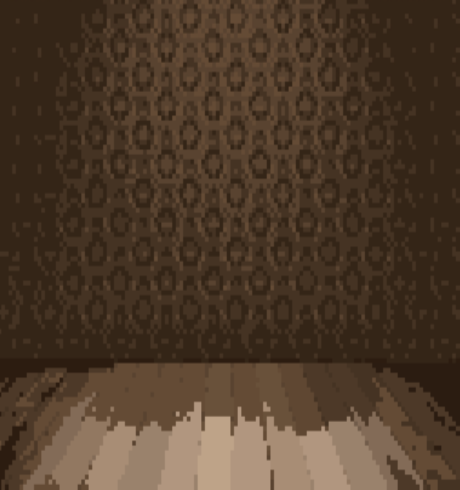
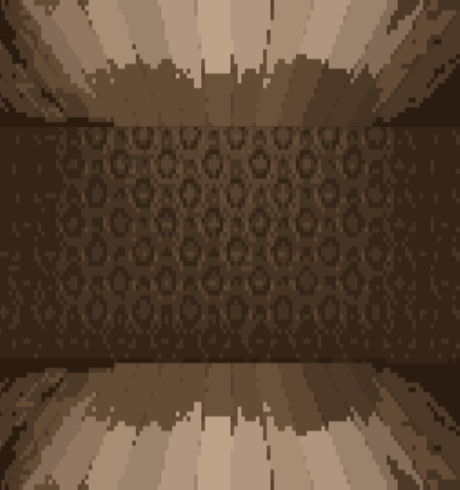
Attempting to make corners

Changed region(s): [[0.0, 0.0, 1.0, 0.2755]]

diff --git a/src/com/trapped/view/MainFrame.java b/src/com/trapped/view/MainFrame.java
@@ -20,13 +20,13 @@ public class MainFrame extends JFrame {
 
     GameHandler gHandler;
     public JButton startButton, settingButton, exitButton,SUBMITbtn;
-    public JPanel MenuBG_panel, menuPanel, itemsPanel, MainBG_Panel, TextBox_panel;
-    public JLabel themeLabel, roomLabel, keyLabel, matchLabel, laptopLabel, walletLabel, candleLabel, paperLabel, crowbarLabel;
+    public JPanel MenuBG_panel, menuPanel, itemsPanel, MainBG_Panel, cornerLeftPanel, cornerRightPanel, TextBox_panel;
+    public JLabel themeLabel, roomLabel, cornerLeft, cornerRight, keyLabel, matchLabel, laptopLabel, walletLabel, candleLabel, paperLabel, crowbarLabel;
     public JLabel matches, key, wallet, laptop, candle, paper, crowbar, windowWithKey, windowWithoutKey;
     public JTextArea introText = new JTextArea();
     public JTextArea textArea = new JTextArea();
     public TextField inputText = new TextField(20);
-    static List<Boolean> initArr = Arrays.asList(true, false, false, false, false, false, false, false, false, false, false, false, false, false);
+    static List<Boolean> initArr = Arrays.asList(true, false, false, false, false, false, false, false, false, false, false, false, false, false,false,true,false);
 
 
     public MainFrame(GameHandler gHandler) {
@@ -50,7 +50,11 @@ public class MainFrame extends JFrame {
         MenuBG_panel.add(themeLabel);
 
         roomLabel = createJLabel("resources/SwingArt/room1.png");
+        cornerLeft = createJLabel("resources/SwingArt/room1corner2.png");
+        cornerRight = createJLabel("resources/SwingArt/room1corner.png");
         MainBG_Panel.add(roomLabel);
+        MainBG_Panel.add(cornerRight);
+        MainBG_Panel.add(cornerLeft);
 
         menuPanel.add(startButton);
         menuPanel.add(settingButton);
@@ -69,7 +73,7 @@ public class MainFrame extends JFrame {
 
     public void settingScreen() {
         menuPanel.setVisible(true);
-        startButton.addActionListener(e -> gameScreen((ArrayList<Boolean>) initArr));
+        startButton.addActionListener(e -> gameScreen(initArr));
         exitButton.addActionListener(e -> System.exit(0));
         MainBG_Panel.updateUI();  // reset the panels
         MainBG_Panel.removeAll(); // remove all the layers
@@ -123,7 +127,8 @@ public class MainFrame extends JFrame {
         MenuBG_panel = createJPanel(-10, 0, 500, 750, false);
         menuPanel = createJPanel(150, 350, 100, 180, false);
         menuPanel.setBackground(Color.decode("#302a1e"));
-
+        cornerRightPanel = createJPanel(10, 40, 460, 500, false);
+        cornerLeftPanel = createJPanel(10, 40, 460, 500, false);
         MainBG_Panel = createJPanel(10, 40, 460, 500, false);
         itemsPanel = createJPanel(320,550,155,155, false);
         itemsPanel.setBackground(Color.black);
@@ -143,6 +148,8 @@ public class MainFrame extends JFrame {
     public void showMainMenu() {
         MainBG_Panel.updateUI();
         MainBG_Panel.removeAll();
+        MainBG_Panel.repaint();
+        MainBG_Panel.revalidate();
 
         MenuBG_panel.setVisible(true);
         menuPanel.setVisible(true);
@@ -154,13 +161,17 @@ public class MainFrame extends JFrame {
     }
 
     public void winScreen(String fileName) {
+        MainBG_Panel.updateUI();
+        MainBG_Panel.removeAll();
+        MainBG_Panel.repaint();
+        MainBG_Panel.revalidate();
         menuPanel.setVisible(false);
         textArea.setVisible(false);
         MainBG_Panel.setVisible(false);
         MenuBG_panel.setVisible(false);
         itemsPanel.setVisible(false);
         inputText.setVisible(false);
-
+        SUBMITbtn.setVisible(false);
         introText.setVisible(true);
         writeToIntro(readFileFromResources(fileName));
         introText.addKeyListener(new KeyListener() {
@@ -188,6 +199,10 @@ public class MainFrame extends JFrame {
     }
 
     public void loseScreen(String fileName) {
+        MainBG_Panel.updateUI();
+        MainBG_Panel.removeAll();
+        MainBG_Panel.repaint();
+        MainBG_Panel.revalidate();
         menuPanel.setVisible(false);
         textArea.setVisible(false);
         MainBG_Panel.setVisible(false);
@@ -221,6 +236,10 @@ public class MainFrame extends JFrame {
     }
 
     public void introScreen(String fileName) {
+        MainBG_Panel.updateUI();
+        MainBG_Panel.removeAll();
+        MainBG_Panel.repaint();
+        MainBG_Panel.revalidate();
         menuPanel.setVisible(false);
         textArea.setVisible(false);
         MainBG_Panel.setVisible(false);
@@ -267,11 +286,12 @@ public class MainFrame extends JFrame {
 
     // Create the game sense
     public void gameScreen(List<Boolean> arr) {
-        MainBG_Panel.updateUI();  // reset the panels
-        MainBG_Panel.removeAll(); // remove all the layers
-
-
         introText.setVisible(false);
+        MainBG_Panel.updateUI();
+        MainBG_Panel.removeAll();
+        MainBG_Panel.repaint();
+        MainBG_Panel.revalidate();
+
         MainBG_Panel.setVisible(true);
         MenuBG_panel.setVisible(false);
         menuPanel.setVisible(false);
@@ -338,7 +358,22 @@ public class MainFrame extends JFrame {
         MainBG_Panel.add(rgtBtn);
         MainBG_Panel.setLayout(null);
         MainBG_Panel.add(roomLabel);
+        MainBG_Panel.add(cornerRight);
+        MainBG_Panel.add(cornerLeft);
 
+        if(arr.get(14)){
+            roomLabel.setVisible(true);
+            System.out.println("center triggered");
+        }else if (arr.get(15)) {
+            cornerLeft.setVisible(true);
+            System.out.println("corner left triggered");
+        }
+        else if (arr.get(16)){
+            cornerRight.setVisible(true);
+            System.out.println("corner right triggered");
+        }else{
+            System.out.println("nothing was triggered");
+        }
         bed.setVisible(arr.get(0));
         door.setVisible(arr.get(1));
         safe.setVisible(arr.get(2));

diff --git a/src/com/trapped/ActionController.java b/src/com/trapped/ActionController.java
@@ -25,13 +25,13 @@ class ActionController implements ActionListener {
         this.gHandler = gHandler;
     }
 
-    static List<Boolean> bedArr = Arrays.asList(true, false, false, false, false, false, false, false, false, false, false, false, false, false);
-    static List<Boolean> doorArr = Arrays.asList(false, true, false, false, false, false, false, false, false, false, false, false, false, false);
-    static List<Boolean> safeArr = Arrays.asList(false, false, true, false, false, false, false, false, false, false, false, false, false, false);
-    static List<Boolean> deskArr = Arrays.asList(false, false, false, true, false, false, false, false, false, false, false, false, false, false);
-    static List<Boolean> lampArr = Arrays.asList(false, false, false, false, true, false, false, false, false, false, false, false, false, false);
-    static List<Boolean> chairArr = Arrays.asList(false, false, false, false, false, true, false, false, false, false, false, false, false, false);
-    static List<Boolean> windowArr = Arrays.asList(false, false, false, false, false, false, true, false, false, false, false, false, false, false);
+    static List<Boolean> bedArr = Arrays.asList(true, false, false, false, false, false, false, false, false, false, false, false, false, false,false,true,false);
+    static List<Boolean> doorArr = Arrays.asList(false, true, false, false, false, false, false, false, false, false, false, false, false, false,true,false,false);
+    static List<Boolean> safeArr = Arrays.asList(false, false, true, false, false, false, false, false, false, false, false, false, false, false,true,false,false);
+    static List<Boolean> deskArr = Arrays.asList(false, false, false, true, false, false, false, false, false, false, false, false, false, false,false,false,true);
+    static List<Boolean> lampArr = Arrays.asList(false, false, false, false, true, false, false, false, false, false, false, false, false, false,true,false,false);
+    static List<Boolean> chairArr = Arrays.asList(false, false, false, false, false, true, false, false, false, false, false, false, false, false,false,false,true);
+    static List<Boolean> windowArr = Arrays.asList(false, false, false, false, false, false, true, false, false, false, false, false, false, false,true,false,false);
 
     public static String verb;
     public static String noun;
